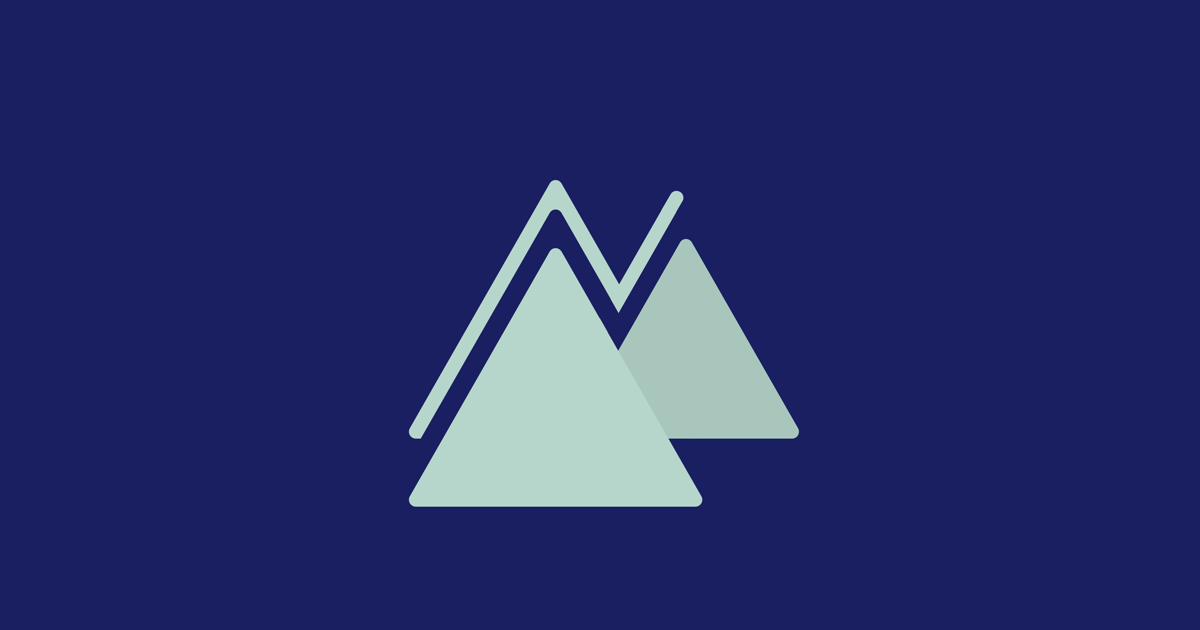
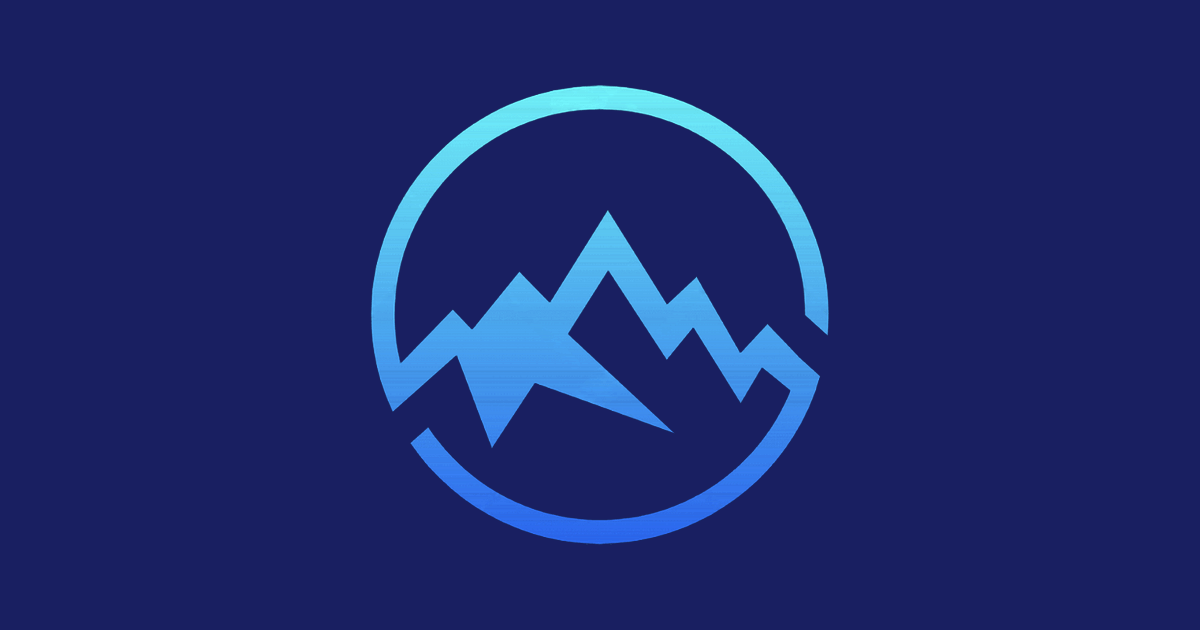
Yeni marka ikonu: zemine göre iki varyant
Daire içinde dağ işareti, eski iki tepeli mint işaretin yerine.
Tek bir dosya her zemine uymuyordu, o yüzden iki varyant üretildi
ve seçimi İŞARETİN ÜZERİNDE DURDUĞU ZEMİN belirliyor:

- logo-gradient.png — şeffaf zemin, kaynaktaki mavi gradyan korunur.
  Lacivert yüzeyler için: footer, panel üst çubuğu (#191F61), giriş
  ekranının sol paneli (lacivert gradyan) ve hoca şeridinin yedek
  görseli (yarı saydam plaka, altında lacivert hero).
- logo-navy.png — şeffaf zemin, tek renk #191F61 işaret. Açık
  yüzeyler için: beyaz üst çubuk ve beyaz mobil menü paneli.

İkisinde de kare zemin YOK. Kaynak ikonun kendi koyu mavi karesi
(#0B114C) markanın lacivertı değil ve beyaz çubukta yama gibi
duruyordu; üstelik giriş ekranının zemini düz renk değil gradyan,
orada düz bir kare kenarı belli olurdu.

Zeminin gerçekten gerektiği üç yerde (favicon, og görseli ve
schema.org'un Organization.logo'su) kare sürüm kullanılıyor ve
zemini kaynaktaki #0B114C değil marka lacivertı #191F61.

Kenar yumuşatması kaynağın koyu zeminine gömülüydü; alfa, satır
bazlı parlaklık referansıyla geri çıkarılıp renk arındırıldı, yoksa
açık zeminde işaretin çevresinde koyu bir hale kalırdı.

favicon ?v=3 -> ?v=4: dosya adı aynı kaldığı için damga olmadan
tarayıcılar eski ikonu servis etmeye devam ederdi.

src/assets'teki üç eski dosya silindi (logo-mint/-blue/-white);
-blue ile -white zaten birbirinin baytı baytına kopyasıydı.

Changed region(s): [[0.3083, 0.1206, 0.7092, 0.8746]]

diff --git a/src/components/Header.tsx b/src/components/Header.tsx
@@ -4,7 +4,7 @@ import { Menu, X, UserRound } from 'lucide-react';
 import { motion, AnimatePresence } from 'motion/react';
 import { Button } from './ui/Button';
 import { BrandWordmark } from './ui/BrandWordmark';
-import logoMint from '../assets/logo-mint.png';
+import logoNavy from '../assets/logo-navy.png';
 
 interface HeaderProps {
   onOpenTrialForm: () => void;
@@ -77,12 +77,15 @@ export const Header: React.FC<HeaderProps> = ({ onOpenTrialForm, activeSection }
             }}
             className="flex shrink-0 items-center gap-3 group rounded-xl focus-visible:outline-none focus-visible:ring-2 focus-visible:ring-[#c5a059] focus-visible:ring-offset-2"
           >
-            {/* Logonun kendi lacivert kare zemini bu beyaz çubukla uyumsuz
-                durur, o yüzden yalnızca zemini şeffaflaştırılmış mint ikon
-                kullanılıyor (bkz. src/assets/logo-mint.png). 375px'te bile
-                dar sığıyordu (bkz. aşağıdaki not), o yüzden mobilde küçük,
-                md+'de daha büyük. */}
-            <img src={logoMint} alt="" className="h-7 sm:h-8 md:h-9 w-auto object-contain" />
+            {/* Markanın iki işaret varyantı var ve seçimi ZEMİN belirler:
+                - logo-gradient.png — şeffaf zemin, mavi gradyan işaret. Lacivert
+                  yüzeyler için (footer, panel çubuğu, giriş ekranının sol paneli).
+                - logo-navy.png — şeffaf zemin, tek renk #191F61 işaret. Bu beyaz
+                  çubuk gibi AÇIK yüzeyler için; gradyan sürüm burada soluk kalıyor.
+                İkisi de kare zeminsiz: çubuk beyaz, lacivert bir kare yama gibi
+                dururdu. 375px'te bile dar sığıyordu (bkz. aşağıdaki not), o yüzden
+                mobilde küçük, md+'de daha büyük. */}
+            <img src={logoNavy} alt="" className="h-7 sm:h-8 md:h-9 w-auto object-contain" />
             <BrandWordmark className="text-xs sm:text-sm md:text-base" />
           </a>
 
@@ -265,7 +268,7 @@ export const Header: React.FC<HeaderProps> = ({ onOpenTrialForm, activeSection }
             >
               <div className="flex items-center justify-between border-b border-slate-100 px-5 h-20 shrink-0">
                 <div className="flex items-center gap-2.5">
-                  <img src={logoMint} alt="" className="h-8 w-auto object-contain" />
+                  <img src={logoNavy} alt="" className="h-8 w-auto object-contain" />
                   <BrandWordmark className="text-base" />
                 </div>
 

diff --git a/src/components/Footer.tsx b/src/components/Footer.tsx
@@ -1,7 +1,7 @@
 import React from 'react';
 import { Link } from 'react-router-dom';
 import { Phone, MapPin } from 'lucide-react';
-import logoBlue from '../assets/logo-blue.png';
+import logoGradient from '../assets/logo-gradient.png';
 import need from '../../need.json';
 import { Button } from './ui/Button';
 
@@ -65,10 +65,10 @@ export const Footer: React.FC<FooterProps> = ({ onOpenTrialForm }) => {
               {/* width/height: görsel inmeden yer ayrılır.
                   alt'ta "Logo" demiyoruz — ekran okuyucu zaten "görsel" diyor. */}
               <img
-                src={logoBlue}
+                src={logoGradient}
                 alt="Sherpa Akademi"
-                width={512}
-                height={512}
+                width={400}
+                height={400}
                 className="h-11 md:h-12 w-auto object-contain"
               />
               <span className="text-2xl font-extrabold tracking-tight text-white">

diff --git a/index.html b/index.html
@@ -8,12 +8,12 @@
     <meta charset="UTF-8" />
     <meta name="viewport" content="width=device-width, initial-scale=1.0" />
 
-    <link rel="icon" type="image/x-icon" href="/favicon.ico?v=3" />
+    <link rel="icon" type="image/x-icon" href="/favicon.ico?v=4" />
     <!-- favicon.png 512x512'dir; boyut beyanı dosyanın gerçeğiyle uyuşmalı,
          aksi halde tarayıcı 32x32 sanıp 122 KB'lık dosyayı sekme ikonu için indirir. -->
-    <link rel="icon" type="image/png" sizes="512x512" href="/favicon.png?v=3" />
-    <link rel="shortcut icon" href="/favicon.ico?v=3" />
-    <link rel="apple-touch-icon" href="/favicon.png?v=3" />
+    <link rel="icon" type="image/png" sizes="512x512" href="/favicon.png?v=4" />
+    <link rel="shortcut icon" href="/favicon.ico?v=4" />
+    <link rel="apple-touch-icon" href="/favicon.png?v=4" />
 
     <!-- Primary Meta Tags -->
     <title>{{site.title}}</title>

diff --git a/scripts/blog/templates.ts b/scripts/blog/templates.ts
@@ -110,8 +110,8 @@ ${options.prev ? `<link rel="prev" href="${esc(options.prev)}">\n` : ""}${option
 <meta name="twitter:title" content="${esc(fullTitle)}">
 <meta name="twitter:description" content="${esc(options.description)}">
 <meta name="twitter:image" content="${esc(ogImage)}">
-<link rel="icon" type="image/x-icon" href="/favicon.ico?v=3">
-<link rel="icon" type="image/png" sizes="512x512" href="/favicon.png?v=3">
+<link rel="icon" type="image/x-icon" href="/favicon.ico?v=4">
+<link rel="icon" type="image/png" sizes="512x512" href="/favicon.png?v=4">
 <link rel="alternate" type="application/rss+xml" title="${esc(BRAND)} Blog" href="${rssPath()}">
 <meta name="theme-color" content="#191F61">
 <link rel="preconnect" href="https://fonts.googleapis.com">

diff --git a/src/entry-server.tsx b/src/entry-server.tsx
@@ -12,7 +12,7 @@ import { AuthProvider } from './context/AuthContext';
  *
  * Neden düz `tsx` ile değil de Vite ile derleniyor: src/lib/host.ts
  * `import.meta.env.VITE_*` okuyor (Node'da TypeError) ve Header/Footer
- * `../assets/logo-white.png` gibi Vite asset import'ları yapıyor. Prerender
+ * `../assets/logo-gradient.png` gibi Vite asset import'ları yapıyor. Prerender
  * edilen <img src>'in istemci build'iyle AYNI content-hash'e düşmesi şart,
  * yoksa sayfada var olmayan bir dosyaya işaret eden görseller kalır.
  *

diff --git a/src/components/portal/PanelHeader.tsx b/src/components/portal/PanelHeader.tsx
@@ -4,7 +4,7 @@ import { ArrowLeft, LogOut } from 'lucide-react';
 import { Button } from '../ui/Button';
 import { useAuth } from '../../context/AuthContext';
 import { SITE_URL } from '../../config';
-import logo from '../../assets/logo-white.png';
+import logo from '../../assets/logo-gradient.png';
 
 /*
  * PANEL BAŞLIĞI — ÜÇ PANELİN ORTAK ÜST ÇUBUĞU

diff --git a/src/components/portal/PortalBrandPanel.tsx b/src/components/portal/PortalBrandPanel.tsx
@@ -1,5 +1,5 @@
 import React from 'react';
-import logo from '../../assets/logo-white.png';
+import logo from '../../assets/logo-gradient.png';
 
 /*
  * PORTALIN SOL PANELİ
